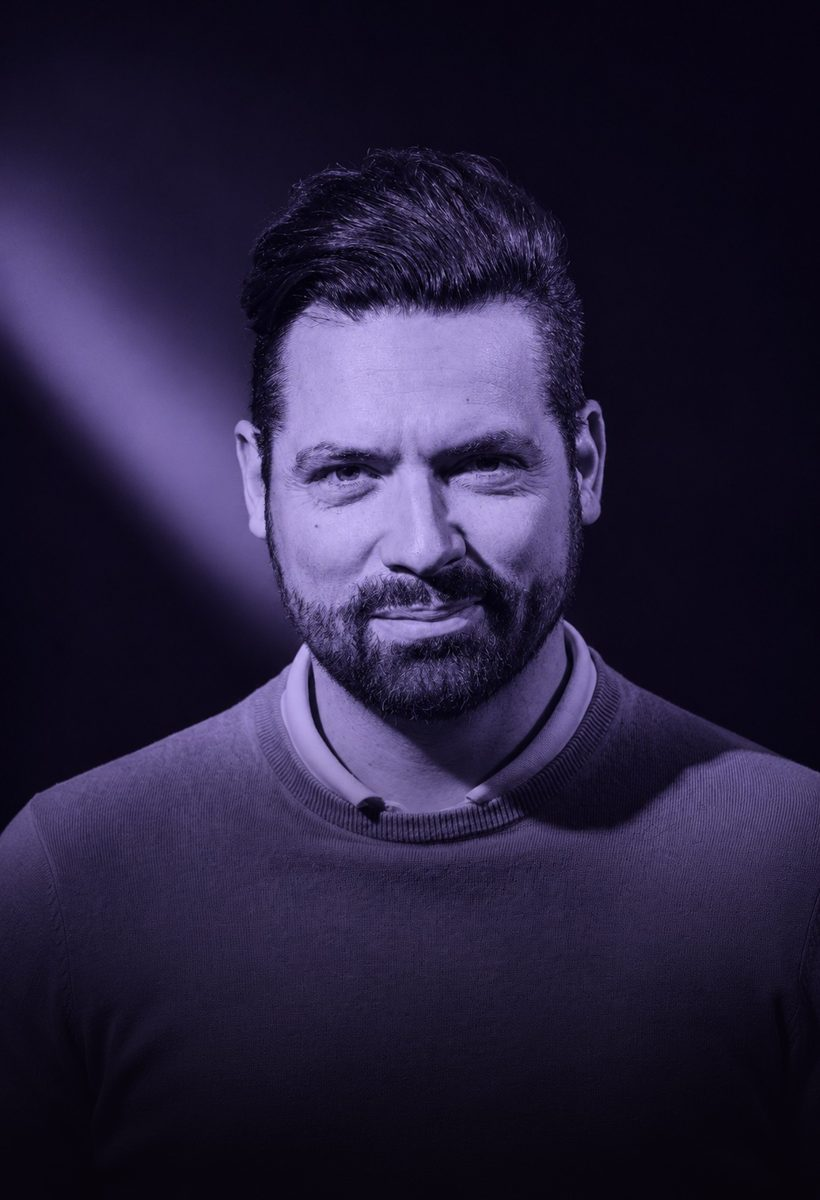
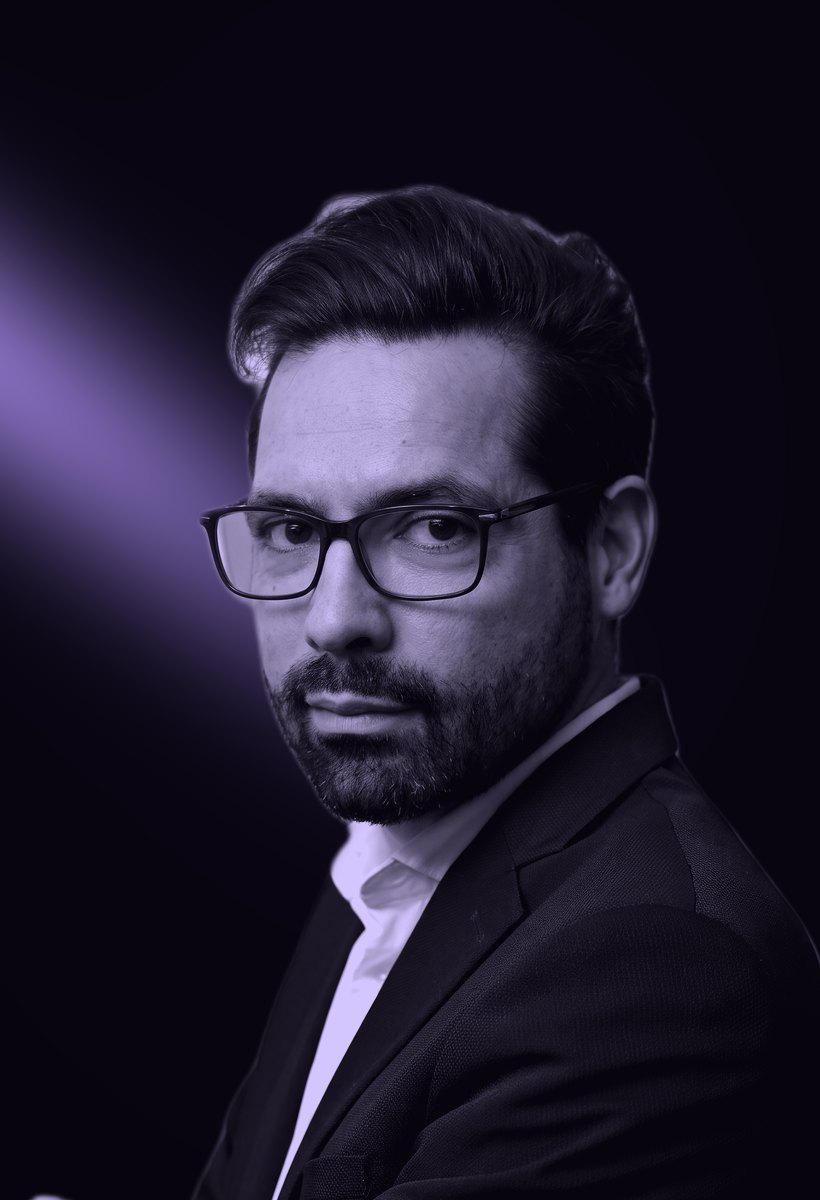
Hero : chiffres business (BCG 2026, NBER, Harvard et BCG) ; nouveau portrait au traitement violet du site
Claude-Session: https://claude.ai/code/session_01WC3vB9jbgg8qUSnR4VLfZ8

diff --git a/index.html b/index.html
@@ -681,7 +681,7 @@ html{scroll-padding-top:84px}
       <div class="liens"><p class="alt alt-pictos"><span>Ou directement</span><a href="https://calendar.app.google/ik41pcP1CtoXp9d7A" target="_blank" rel="noopener"><img src="/assets/pictos/calendar.svg" alt="">faire le point en 30 minutes</a><a href="/offre/"><img src="/assets/pictos/document-text.svg" alt="">recevoir l’offre en PDF</a><a href="https://wa.me/33680598485?text=Bonjour%20Fran%C3%A7ois-Xavier%2C%20je%20vous%20%C3%A9cris%20depuis%20votre%20site." target="_blank" rel="noopener"><img src="/assets/pictos/chat-round.svg" alt="">m’écrire sur WhatsApp</a></p></div>
     </div></div>
     </form>
-    <ul class="preuves preuves-sous" aria-label="L’IA en chiffres"><li><img src="/assets/pictos/wallet-money.svg" alt="" width="24" height="24"><b>3,3&nbsp;%</b><span>du chiffre d’affaires va à l’IA, deux fois plus en un an</span></li><li><img src="/assets/pictos/graph-up.svg" alt="" width="24" height="24"><b>37&nbsp;%</b><span>des entreprises voient un effet sur leur résultat</span></li><li><img src="/assets/pictos/rocket-2.svg" alt="" width="24" height="24"><b>6&nbsp;%</b><span>en tirent un gain significatif</span></li><li><img src="/assets/pictos/document-text.svg" alt="" width="24" height="24"><b>14&nbsp;%</b><span>ont chiffré l’effet de chaque projet IA</span></li></ul><p class="preuves-src">Études internationales, 2026. Sources&nbsp;: <a href="https://www.bcg.com/press/30september2026-ai-starting-to-pay-off-companies-generate-value" target="_blank" rel="noopener">BCG</a>, <a href="https://www.mckinsey.com/capabilities/quantumblack/our-insights/the-state-of-ai" target="_blank" rel="noopener">McKinsey</a>, <a href="https://www.bcg.com/press/22july2026-ceos-cost-revenue-benefits-ai-struggling-scale" target="_blank" rel="noopener">BCG</a>.</p></div></div>
+    <ul class="preuves preuves-sous" aria-label="Ce que l’IA rapporte"><li><img src="/assets/pictos/wallet-money.svg" alt="" width="24" height="24"><b>×2,8</b><span>de croissance de l’EBITDA chez les plus avancés en IA</span></li><li><img src="/assets/pictos/graph-up.svg" alt="" width="24" height="24"><b>×2,4</b><span>de croissance du chiffre d’affaires</span></li><li><img src="/assets/pictos/users-group-two-rounded.svg" alt="" width="24" height="24"><b>+14&nbsp;%</b><span>de demandes traitées par heure au service client</span></li><li><img src="/assets/pictos/rocket-2.svg" alt="" width="24" height="24"><b>+40&nbsp;%</b><span>de qualité, 25&nbsp;% plus vite, sur des tâches de conseil</span></li></ul><p class="preuves-src">Sources&nbsp;: <a href="https://www.bcg.com/press/30september2026-ai-starting-to-pay-off-companies-generate-value" target="_blank" rel="noopener">BCG 2026</a> (les plus avancés comparés aux retardataires), <a href="https://www.nber.org/papers/w31161" target="_blank" rel="noopener">NBER</a>, <a href="https://papers.ssrn.com/abstract=4573321" target="_blank" rel="noopener">Harvard et BCG</a>.</p></div></div>
   </div>
 </div>
 

diff --git a/en/index.html b/en/index.html
@@ -680,7 +680,7 @@ html{scroll-padding-top:84px}
       <div class="liens"><p class="alt alt-pictos"><span>Or directly</span><a href="https://calendar.app.google/ik41pcP1CtoXp9d7A" target="_blank" rel="noopener"><img src="/assets/pictos/calendar.svg" alt="">take stock in 30 minutes</a><a href="/en/offer/"><img src="/assets/pictos/document-text.svg" alt="">get the brochure (PDF)</a><a href="https://wa.me/33680598485?text=Hello%20Fran%C3%A7ois-Xavier%2C%20I%20am%20writing%20from%20your%20website." target="_blank" rel="noopener"><img src="/assets/pictos/chat-round.svg" alt="">message me on WhatsApp</a></p></div>
     </div></div>
     </form>
-    <ul class="preuves preuves-sous" aria-label="AI in numbers"><li><img src="/assets/pictos/wallet-money.svg" alt="" width="24" height="24"><b>3.3%</b><span>of revenue now goes to AI, doubled in a year</span></li><li><img src="/assets/pictos/graph-up.svg" alt="" width="24" height="24"><b>37%</b><span>of companies see an effect on their bottom line</span></li><li><img src="/assets/pictos/rocket-2.svg" alt="" width="24" height="24"><b>6%</b><span>get significant value from it</span></li><li><img src="/assets/pictos/document-text.svg" alt="" width="24" height="24"><b>14%</b><span>have sized the P&amp;L impact of every AI project</span></li></ul><p class="preuves-src">International studies, 2026. Sources: <a href="https://www.bcg.com/press/30september2026-ai-starting-to-pay-off-companies-generate-value" target="_blank" rel="noopener">BCG</a>, <a href="https://www.mckinsey.com/capabilities/quantumblack/our-insights/the-state-of-ai" target="_blank" rel="noopener">McKinsey</a>, <a href="https://www.bcg.com/press/22july2026-ceos-cost-revenue-benefits-ai-struggling-scale" target="_blank" rel="noopener">BCG</a>.</p></div></div>
+    <ul class="preuves preuves-sous" aria-label="What AI pays"><li><img src="/assets/pictos/wallet-money.svg" alt="" width="24" height="24"><b>×2.8</b><span>EBITDA growth for AI leaders</span></li><li><img src="/assets/pictos/graph-up.svg" alt="" width="24" height="24"><b>×2.4</b><span>revenue growth</span></li><li><img src="/assets/pictos/users-group-two-rounded.svg" alt="" width="24" height="24"><b>+14%</b><span>more customer issues resolved per hour</span></li><li><img src="/assets/pictos/rocket-2.svg" alt="" width="24" height="24"><b>+40%</b><span>quality, 25% faster, on consulting tasks</span></li></ul><p class="preuves-src">Sources: <a href="https://www.bcg.com/press/30september2026-ai-starting-to-pay-off-companies-generate-value" target="_blank" rel="noopener">BCG 2026</a> (leaders vs. laggards), <a href="https://www.nber.org/papers/w31161" target="_blank" rel="noopener">NBER</a>, <a href="https://papers.ssrn.com/abstract=4573321" target="_blank" rel="noopener">Harvard and BCG</a>.</p></div></div>
   </div>
 </div>
 
